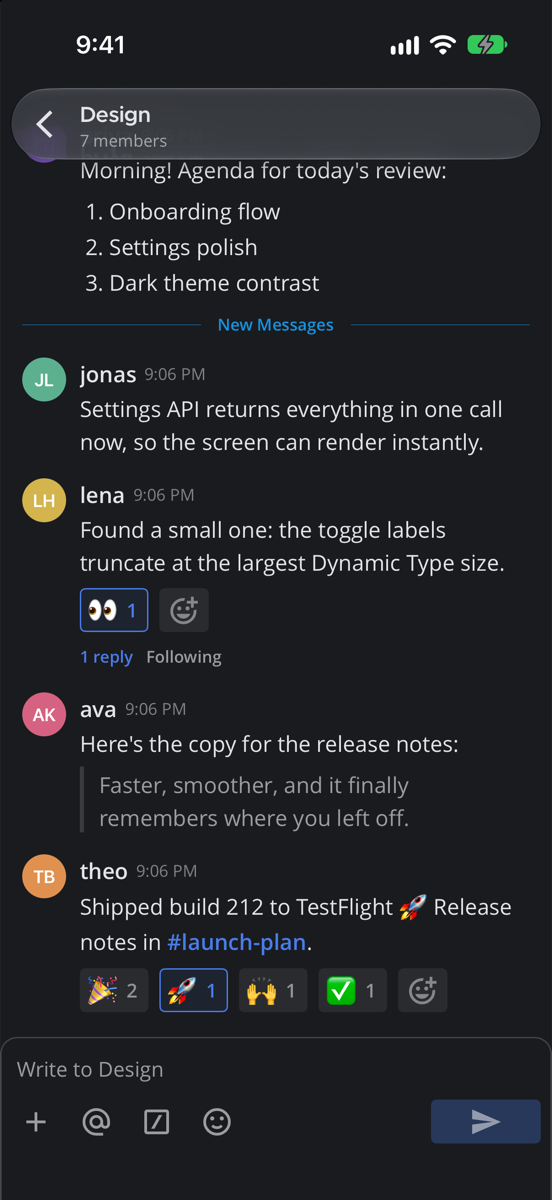
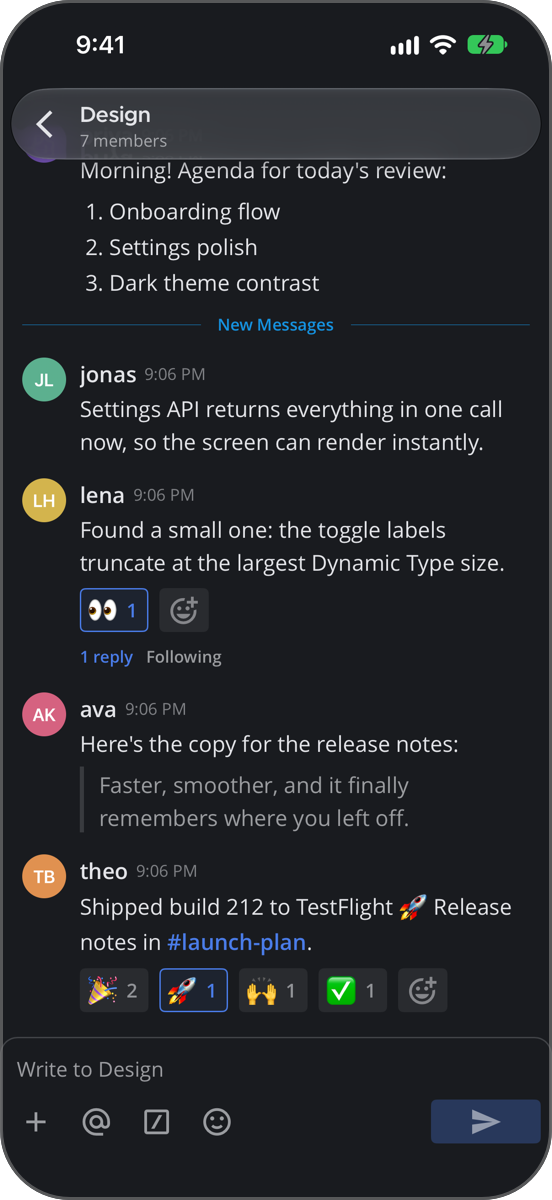
README: framed, captioned screenshots in matching sizes

Changed region(s): [[0.0, 0.0, 1.0, 1.0]]

diff --git a/README.md b/README.md
@@ -19,18 +19,19 @@ port of the open-source [Mattermost Mobile](https://github.com/mattermost/matter
 
 ## Screenshots
 
-<p align="center">
-  <img src="docs/screenshots/01-channels.png" width="24%" alt="Channel list">
-  <img src="docs/screenshots/02-conversation.png" width="24%" alt="Conversation with the glass header">
-  <img src="docs/screenshots/03-longpress.png" width="24%" alt="Message actions">
-  <img src="docs/screenshots/04-channel-menu.png" width="24%" alt="Channel menu">
-</p>
-<p align="center">
-  <img src="docs/screenshots/06-duo-unfolded.png" width="64%" alt="iPhone Duo, unfolded: channel list beside the conversation">
-  <img src="docs/screenshots/05-duo-folded.png" width="32%" alt="iPhone Duo, folded: Back in the status-bar column">
-</p>
+### iPhone
 
-<sub>Demo data on a local test server. All people, messages and the team are made up.</sub>
+| Channels | Conversation | Message actions | Channel menu |
+| :---: | :---: | :---: | :---: |
+| <img src="docs/screenshots/01-channels.png" width="170" alt="Channel list with favorites, channels and direct messages"> | <img src="docs/screenshots/02-conversation.png" width="170" alt="Conversation under the glass header"> | <img src="docs/screenshots/03-longpress.png" width="170" alt="Long-press sheet with reactions and message actions"> | <img src="docs/screenshots/04-channel-menu.png" width="170" alt="Glass channel menu opened from the header"> |
+
+### iPhone Duo
+
+| Unfolded | Folded |
+| :---: | :---: |
+| <img src="docs/screenshots/06-duo-unfolded.png" height="350" alt="Channel list beside the conversation on the inner screen"> | <img src="docs/screenshots/05-duo-folded.png" height="350" alt="Conversation on the outer screen, with Back in the status-bar column"> |
+
+<sub>Taken on a local test server. The team, people and messages are made up.</sub>
 
 ## What's different from the official app
 
